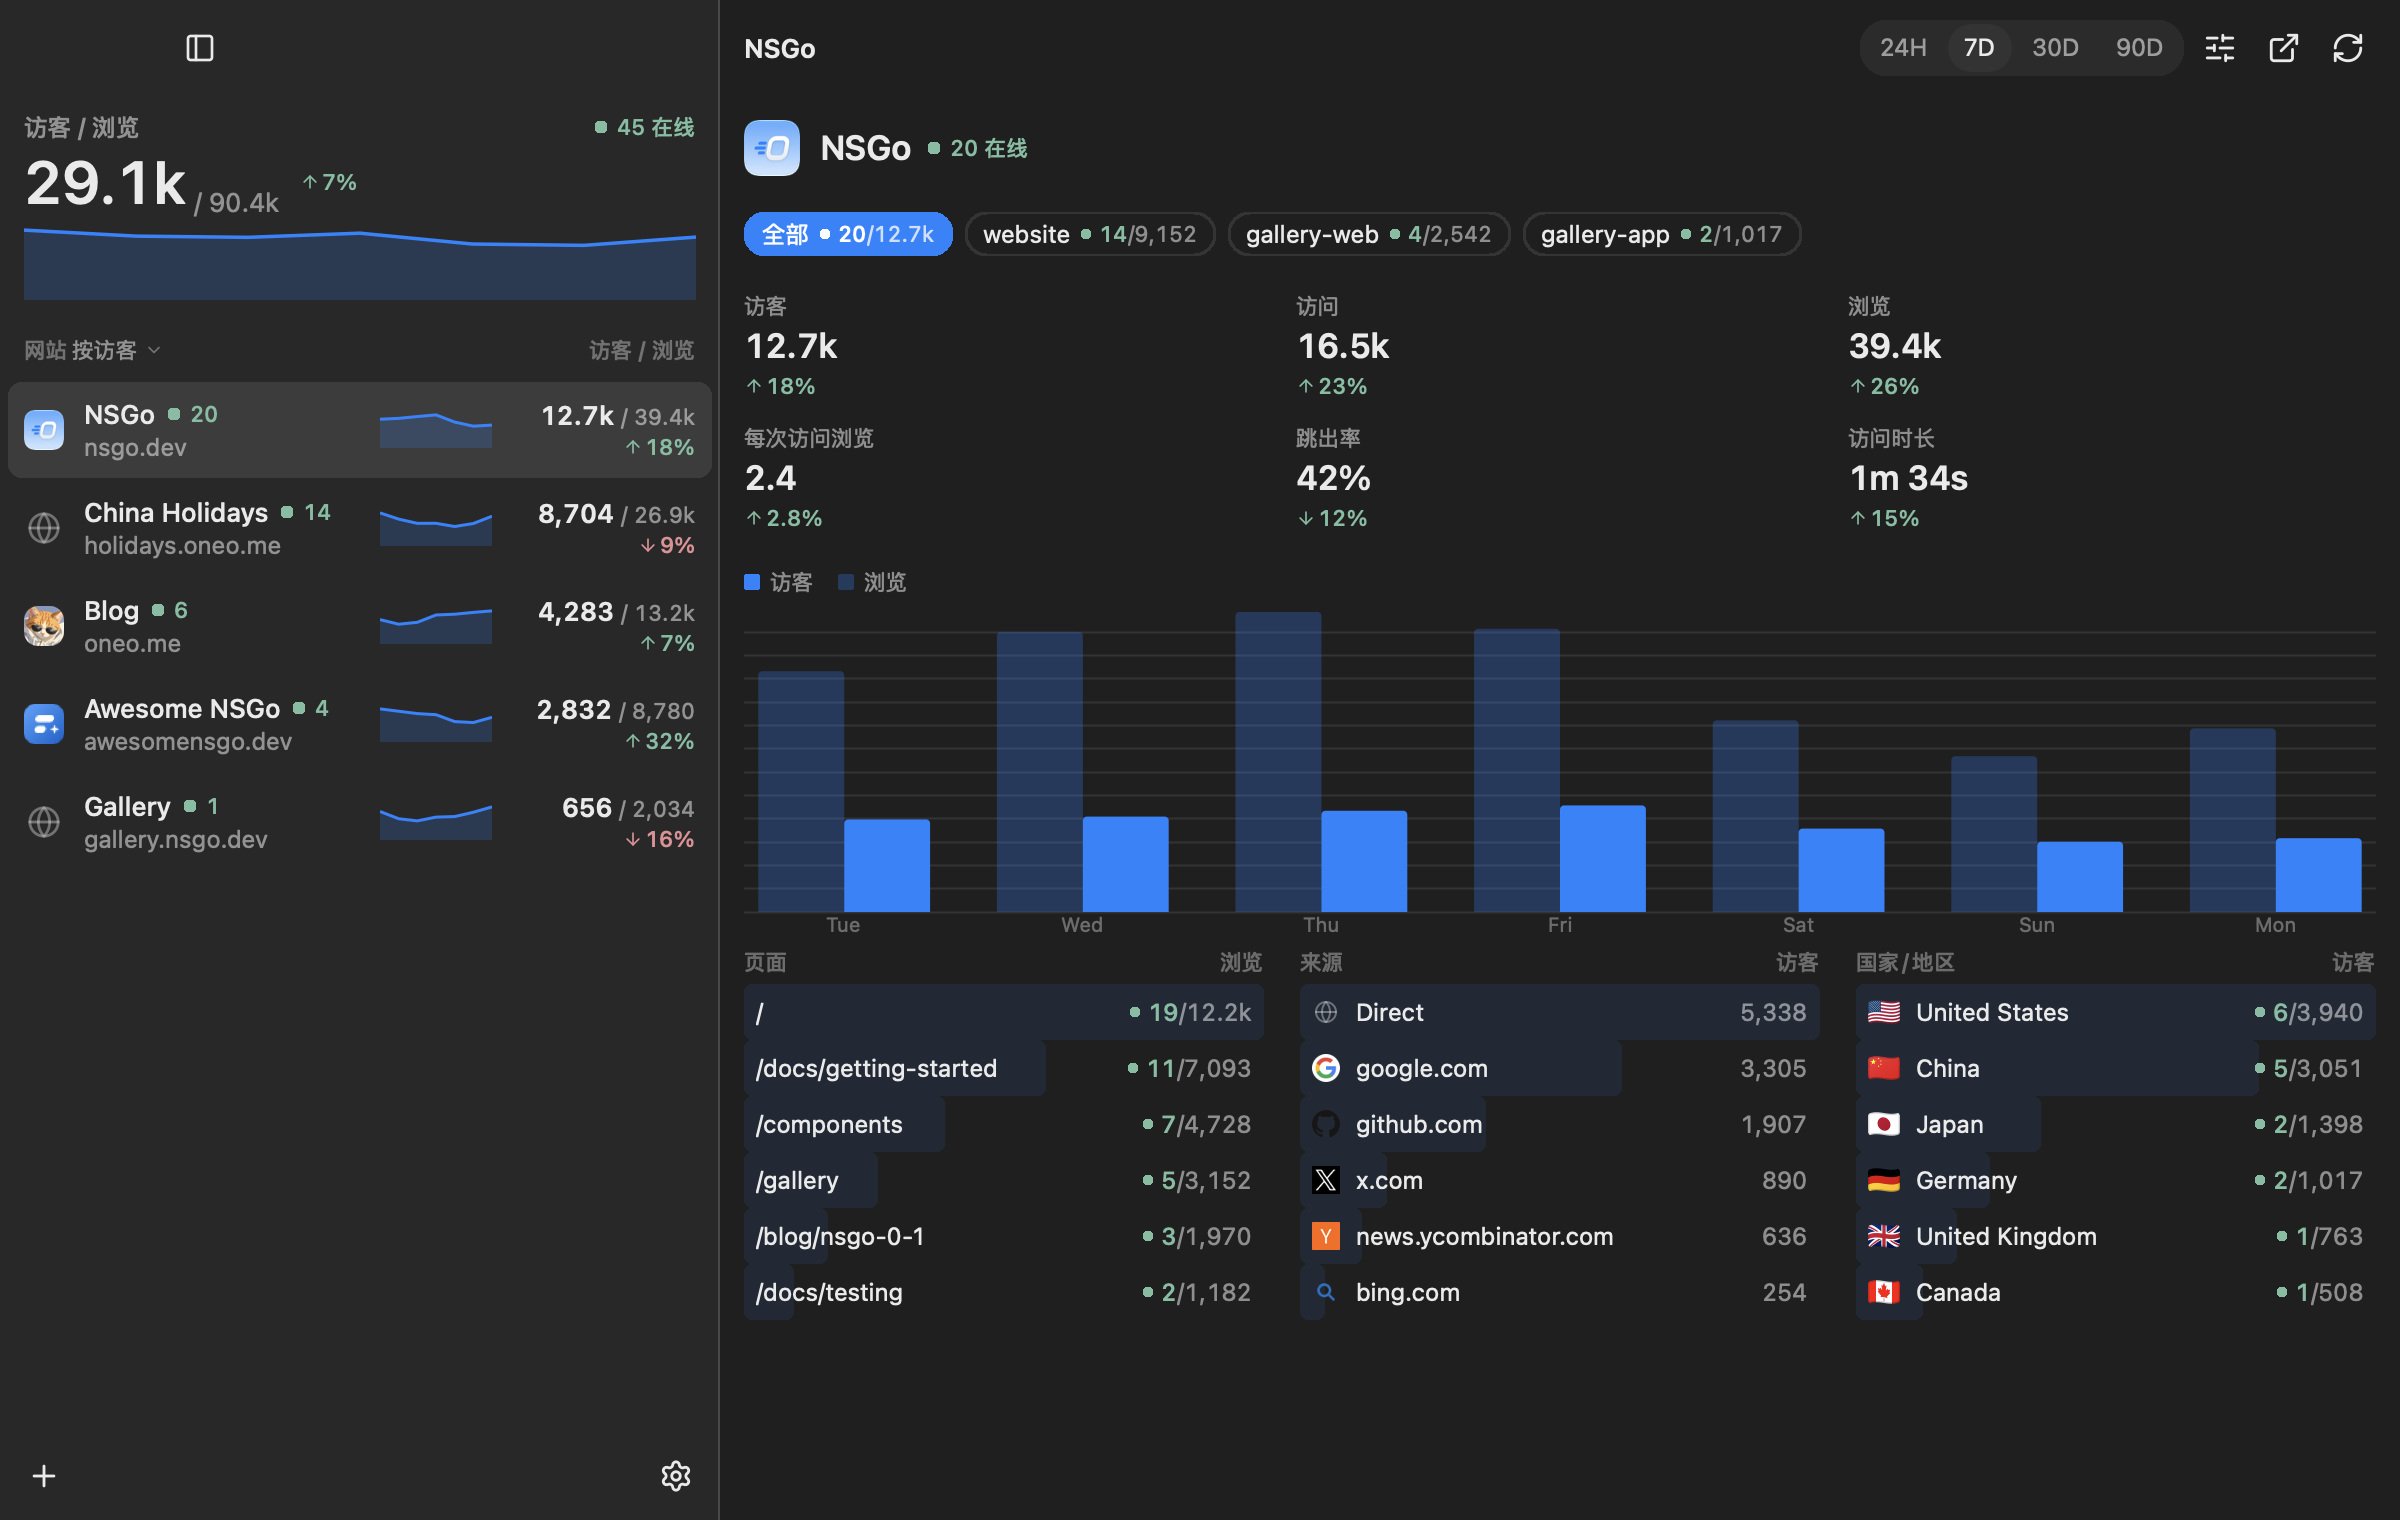
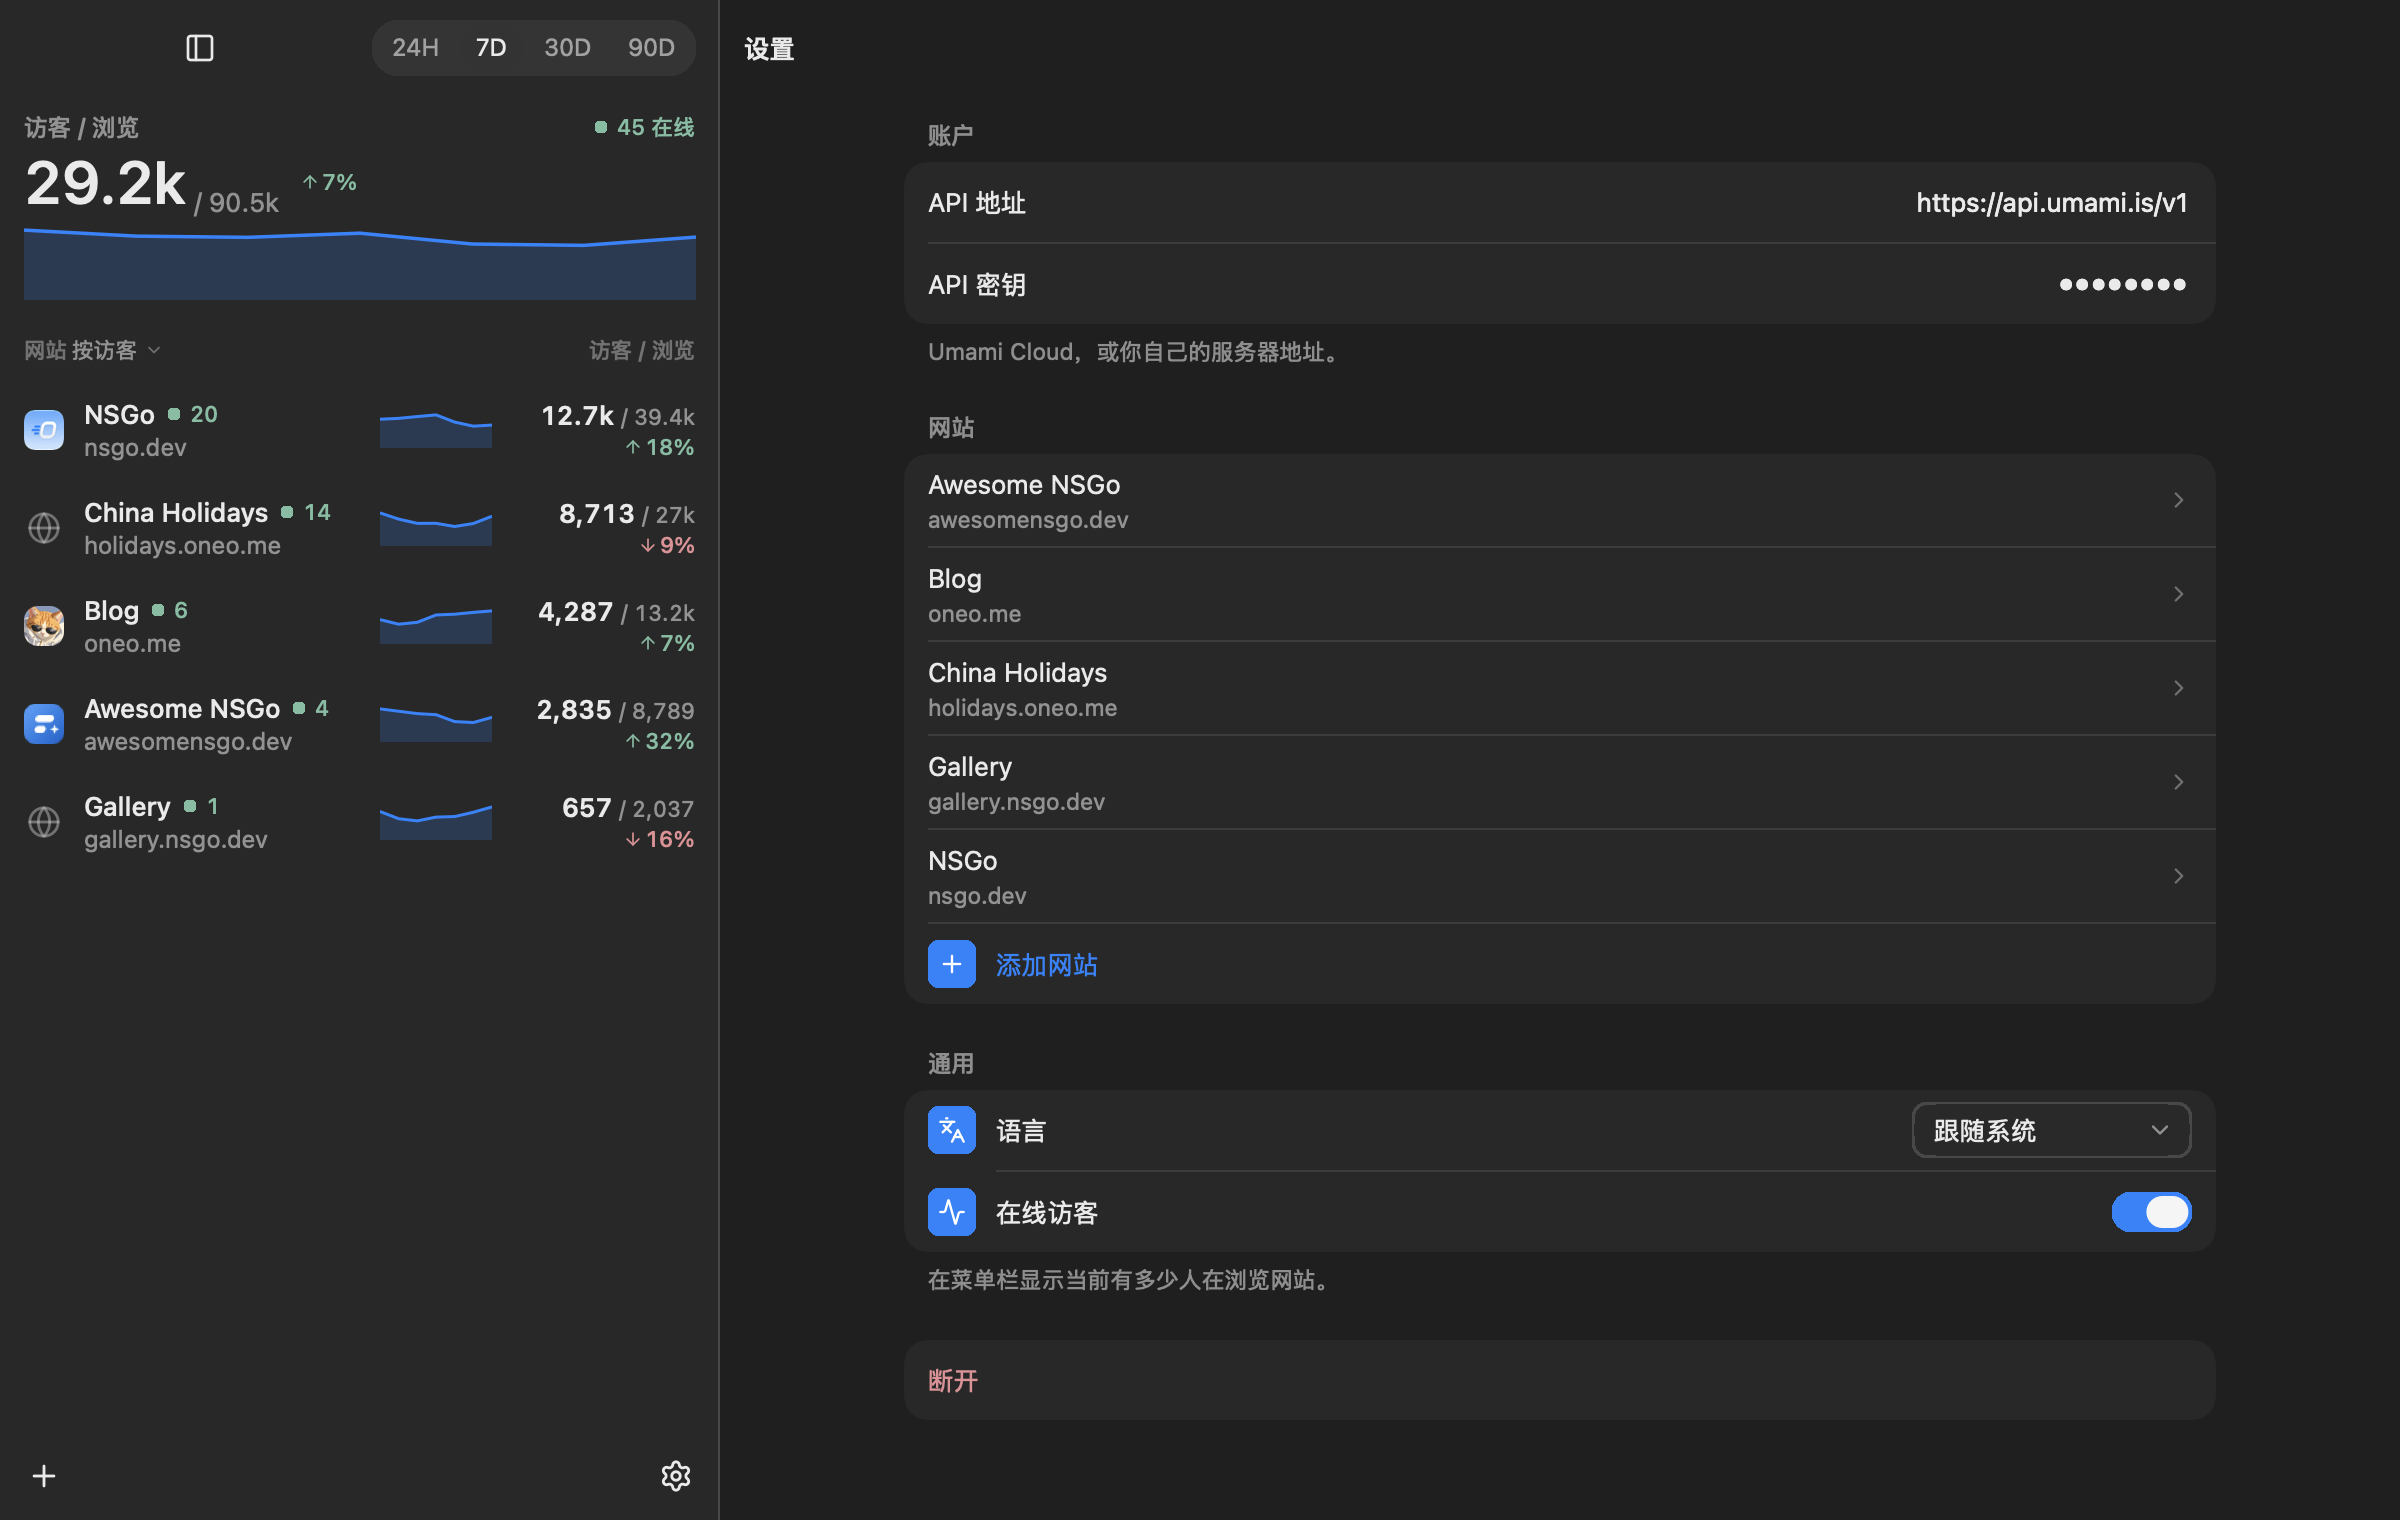
feat: add a Window menu, put the range in the sidebar's bar and fix the sidebar's width

diff --git a/apps/umapp/window.go b/apps/umapp/window.go
@@ -10,7 +10,7 @@ import (
 	"github.com/nsgo-dev/nsgo/ui"
 )
 
-// The main window's size as it first opens, and its sidebar's, which shows the panel's list at the panel's width.
+// The main window's size as it first opens, and its sidebar's, which shows the panel's list at the panel's fixed width.
 const (
 	windowWidth  = 1200
 	windowHeight = 760
@@ -23,12 +23,11 @@ func (a *app) windowRoot(cx *core.Scope) core.Node {
 	a.bindKeys(cx)
 	tr := msgsOf(cx)
 	open := core.NewSignal(cx, true)
-	width := core.NewSignal(cx, core.Points(sidebarWidth))
 	return ui.SidebarShell{TestID: "window",
 		Open: open.Get, OnOpenChange: open.Set, ToggleLabel: tr.ToggleSidebar(),
-		Width: width.Get, OnWidthChange: width.Set, DefaultWidth: sidebarWidth, MinWidth: 300, MaxWidth: 480,
-		ResizeLabel: tr.ResizeSidebar(),
-		Sidebar:     []core.Node{a.region(a.sidebarKey, a.windowSidebar)},
+		DefaultWidth: sidebarWidth, MinWidth: sidebarWidth, Fixed: true,
+		SidebarActions: []core.Node{a.region(a.windowRangeKey, a.windowRange)},
+		Sidebar:        []core.Node{a.region(a.sidebarKey, a.windowSidebar)},
 		SidebarFooter: []core.Node{
 			a.toolButton(cx, lucide.Plus, tr.AddWebsite(), live(a, func() bool { return !a.configured() }), a.startAdd, "window-add"),
 			ui.Spacer{},
@@ -121,17 +120,27 @@ func (a *app) windowTitle(cx *core.Scope) core.Node {
 	return text
 }
 
-func (a *app) windowActionsKey() string {
-	return fmt.Sprint(a.pageKey(), a.cfg.Range, a.src != nil && a.src.hasDashboard())
+func (a *app) windowRangeKey() string { return fmt.Sprint(a.configured()) }
+
+// windowRange is the range the sidebar's list and the website's page show, at the end of the sidebar's bar.
+func (a *app) windowRange(cx *core.Scope) core.Node {
+	if !a.configured() {
+		return core.View{}
+	}
+	return row(0, a.rangeControl(cx))
 }
 
-// windowActions are the content's tools: the range and refresh for the lists and charts, and a website's settings and Umami page on its own.
+func (a *app) windowActionsKey() string {
+	return fmt.Sprint(a.pageKey(), a.src != nil && a.src.hasDashboard())
+}
+
+// windowActions are the content's tools: refresh for the lists and charts, and a website's settings and Umami page on its own.
 func (a *app) windowActions(cx *core.Scope) core.Node {
 	tr := msgsOf(cx)
 	if !a.configured() || a.page != pageSites && a.page != pageSite {
 		return core.View{}
 	}
-	nodes := []core.Node{a.rangeControl(cx)}
+	var nodes []core.Node
 	if s := a.site(a.open); a.page == pageSite && s != nil {
 		id := s.ID
 		nodes = append(nodes, a.toolButton(cx, lucide.SlidersHorizontal, tr.WebsiteSettings(), nil, func() { a.manageSite(id) }, "window-manage"))

diff --git a/apps/umapp/locales/catalog_gen.go b/apps/umapp/locales/catalog_gen.go
@@ -171,7 +171,6 @@ const (
 	textOpenWindow
 	textChooseWebsite
 	textToggleSidebar
-	textResizeSidebar
 	numTexts
 )
 
@@ -278,7 +277,6 @@ var keyOfText = [numTexts]string{
 	"openWindow",
 	"chooseWebsite",
 	"toggleSidebar",
-	"resizeSidebar",
 }
 
 // textsEn are the messages without arguments in en.
@@ -382,8 +380,7 @@ var textsEn = i18n.NewTexts(""+
 	"Check that the endpoint is your server, then connect."+
 	"Open Window"+
 	"Choose a website to see its visitors."+
-	"Show or Hide the Sidebar"+
-	"Resize the Sidebar",
+	"Show or Hide the Sidebar",
 	[]uint16{
 		5,
 		5,
@@ -485,7 +482,6 @@ var textsEn = i18n.NewTexts(""+
 		11,
 		37,
 		24,
-		18,
 	})
 
 // textsZhHans are the messages without arguments in zh-Hans.
@@ -589,8 +585,7 @@ var textsZhHans = i18n.NewTexts(""+
 	"确认地址是你自己的服务器后再连接。"+
 	"打开窗口"+
 	"选择一个网站，查看它的访客。"+
-	"显示或隐藏边栏"+
-	"调整边栏宽度",
+	"显示或隐藏边栏",
 	[]uint16{
 		5,
 		5,
@@ -692,7 +687,6 @@ var textsZhHans = i18n.NewTexts(""+
 		12,
 		42,
 		21,
-		18,
 	})
 
 // texts returns the messages without arguments in lang, nil for a
@@ -1640,10 +1634,3 @@ func ToggleSidebar(cx *core.Scope) string { return For(cx).ToggleSidebar() }
 
 // ToggleSidebar is the package's ToggleSidebar in the language of msgs.
 func (msgs Messages) ToggleSidebar() string { return msgs.text(textToggleSidebar) }
-
-// ResizeSidebar says "Resize the Sidebar"
-// in the language the app shows under cx.
-func ResizeSidebar(cx *core.Scope) string { return For(cx).ResizeSidebar() }
-
-// ResizeSidebar is the package's ResizeSidebar in the language of msgs.
-func (msgs Messages) ResizeSidebar() string { return msgs.text(textResizeSidebar) }

diff --git a/apps/umapp/main.go b/apps/umapp/main.go
@@ -104,14 +104,23 @@ func (s *shell) installMenu(cx *core.Scope) {
 		app = append(app, desktop.MenuItem{Label: tr.CheckForUpdates(), OnSelect: s.a.checkUpdates})
 	}
 	app = append(app, desktop.MenuItem{Separator: true}, desktop.MenuItem{Role: desktop.MenuQuit})
-	desktop.SetApplicationMenu(cx, []desktop.MenuItem{
+	bar := []desktop.MenuItem{
 		{Label: tr.AppName(), Items: app},
 		{Label: menus.For(cx).Edit(), Items: []desktop.MenuItem{
 			{Role: desktop.MenuUndo}, {Role: desktop.MenuRedo},
 			{Separator: true},
 			{Role: desktop.MenuCut}, {Role: desktop.MenuCopy}, {Role: desktop.MenuPaste}, {Role: desktop.MenuSelectAll},
 		}},
-	})
+	}
+	if s.a.openWindow != nil {
+		// The main window's own menu, as macOS apps have one.
+		bar = append(bar, desktop.MenuItem{Label: menus.For(cx).Window(), Items: []desktop.MenuItem{
+			{Role: desktop.MenuMinimize}, {Role: desktop.MenuZoom}, {Role: desktop.MenuToggleFullScreen},
+			{Separator: true},
+			{Role: desktop.MenuClose},
+		}})
+	}
+	desktop.SetApplicationMenu(cx, bar)
 }
 
 func (s *shell) createTray(cx *core.Scope) {

diff --git a/apps/umapp/main_test.go b/apps/umapp/main_test.go
@@ -1040,6 +1040,12 @@ func TestWindowShowsWebsitesBesideTheirPages(t *testing.T) {
 			t.Errorf("no %q in %q", s, tt.Texts())
 		}
 	}
+	if len(tt.Query("sidebar-header >> range")) == 0 || len(tt.Query("content-header >> range")) != 0 {
+		t.Error("the range is not at the end of the sidebar's bar")
+	}
+	if len(tt.Query("role:adjustable")) != 0 {
+		t.Error("the sidebar resizes")
+	}
 	tt.Press("window-site-b")
 	tt.WaitUntil(5*time.Second, func() bool { return a.page == pageSite && a.loading == 0 })
 	if a.open != "b" || len(tt.Query("detail-b")) == 0 {
@@ -1074,6 +1080,9 @@ func TestWindowBeforeConnectingShowsTheConnectForm(t *testing.T) {
 	}
 	if tt.hasText("Visitors / Views") {
 		t.Error("the sidebar lists websites before connecting")
+	}
+	if len(tt.Query("range")) != 0 {
+		t.Error("the range shows before connecting")
 	}
 }
 

diff --git a/CHANGELOG.md b/CHANGELOG.md
@@ -2,7 +2,8 @@
 
 ## [Unreleased]
 
-- Show the panel's list, with its totals, trends and counts, in the window's sidebar, the website chosen there beside it.
+- Add a Window menu to the menu bar while the window can open.
+- Show the panel's list, with its totals, trends and counts, in the window's sidebar, the website chosen there beside it, under the range in a sidebar of fixed width.
 - Say when deleting a website leaves something of it on Cloudflare, and stop the relay adding its tracker (#19 by @houko).
 
 ## [0.2026.4] - 2026-11-16
